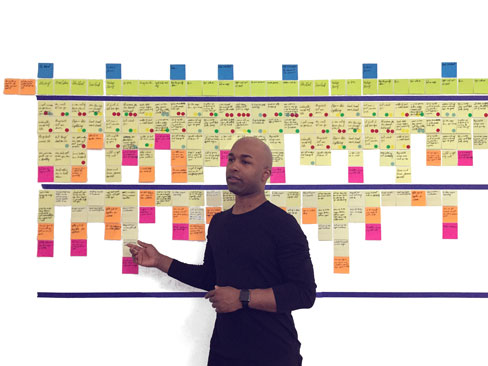
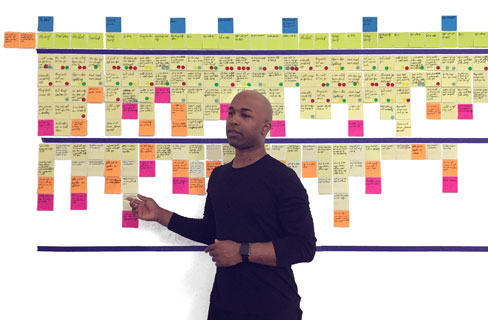
Update experience map image

diff --git a/site/inc/config.php b/site/inc/config.php
@@ -1,7 +1,8 @@
 <?php
 error_reporting(0);
 
-define('STATIC_ASSET_PATH','http://static.shammellee.com/20170310_062318');
+define('STATIC_ASSET_VERSION','20170310_114340');
+define('STATIC_ASSET_PATH','http://static.shammellee.com/' . STATIC_ASSET_VERSION);
 define('IMAGE_PATH',STATIC_ASSET_PATH . '/media');
 define('CSS_PATH',STATIC_ASSET_PATH . '/css');
 define('JS_PATH',STATIC_ASSET_PATH . '/js');
